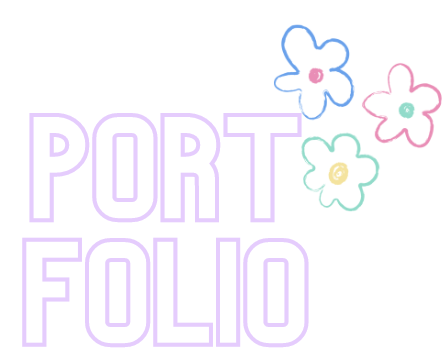
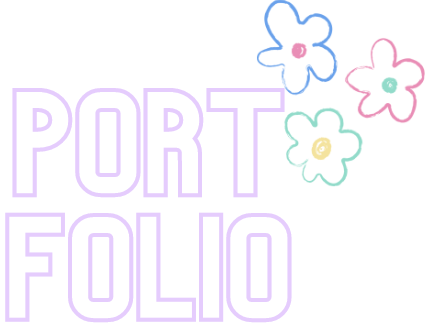
mobile layout first page

Changed region(s): [[0.0306, 0.0, 1.0, 0.6116], [0.0, 0.6422, 0.7035, 1.0]]

diff --git a/my-portfolio/tailwind.config.ts b/my-portfolio/tailwind.config.ts
@@ -1,16 +1,14 @@
 /** @type {import('tailwindcss').Config} */
 module.exports = {
   content: [
-    './src/pages/**/*.{js,ts,jsx,tsx,mdx}',
-    './src/components/**/*.{js,ts,jsx,tsx,mdx}',
-    './src/app/**/*.{js,ts,jsx,tsx,mdx}',
+    './pages/**/*.{js,ts,jsx,tsx,mdx}',
+    './components/**/*.{js,ts,jsx,tsx,mdx}',
+    './app/**/*.{js,ts,jsx,tsx,mdx}',
   ],
   theme: {
-    extend: {
-      container: {
-        center: true,
-        padding: '2rem',
-      },
+    container: {
+      center: true,
+      padding: '1rem',
     },
     extend: {
       colors: {
@@ -29,6 +27,7 @@ module.exports = {
         'light-4': '#5C5C7B',
       },
       spacing: {
+        5: '1.25rem',
         18: '4.5rem',
         15: '3.75rem',
         12: '3rem',
@@ -48,9 +47,9 @@ module.exports = {
       },
       fontFamily: {
         inter: ['Inter', 'sans-serif'],
+        Montserrat: ['Montserrat', 'sans-serif'],
       },
     },
   },
-
   plugins: [],
 };

diff --git a/my-portfolio/components/Portfolio.jsx b/my-portfolio/components/Portfolio.jsx
@@ -1,10 +1,20 @@
 import { useState, useEffect } from 'react';
 import Image from 'next/image';
 import heading from '../public/Portfolio.png';
+import Avatar from '../public/avatar-pic.png';
 const Portfolio = () => {
   return (
-    <section className="bg-gray-900">
-      <Image src={heading} alt="portfolio text" width={600} height={500} />
+    <section className="bg-gray-900 w-[100%] h-screen flex flex-col items-center border border-yellow border-solid">
+      <div className=" ml-5">
+        <Image src={heading} alt="portfolio text" width={400} height={80} />
+      </div>
+      <div className="">
+        <Image src={Avatar} alt="avatar pic" width={300} height={80} />
+      </div>
+      <div className="flex text-white flex-col items-center justify-center">
+        <h1 className="font-Montserrat">Selam Ararsa</h1>
+        <h2>Developer</h2>
+      </div>
     </section>
   );
 };

diff --git a/my-portfolio/pages/index.js b/my-portfolio/pages/index.js
@@ -5,9 +5,7 @@ const inter = Inter({ subsets: ['latin'] });
 
 export default function Home() {
   return (
-    <main
-      className={`flex min-h-screen flex-col items-center justify-between bg-yellow  p-24`}
-    >
+    <main>
       <Portfolio />
     </main>
   );

diff --git a/my-portfolio/styles/globals.css b/my-portfolio/styles/globals.css
@@ -3,6 +3,5 @@
 @tailwind utilities;
 
 body {
-  color: rgb(var(--foreground-rgb));
   background: #272727;
 }
